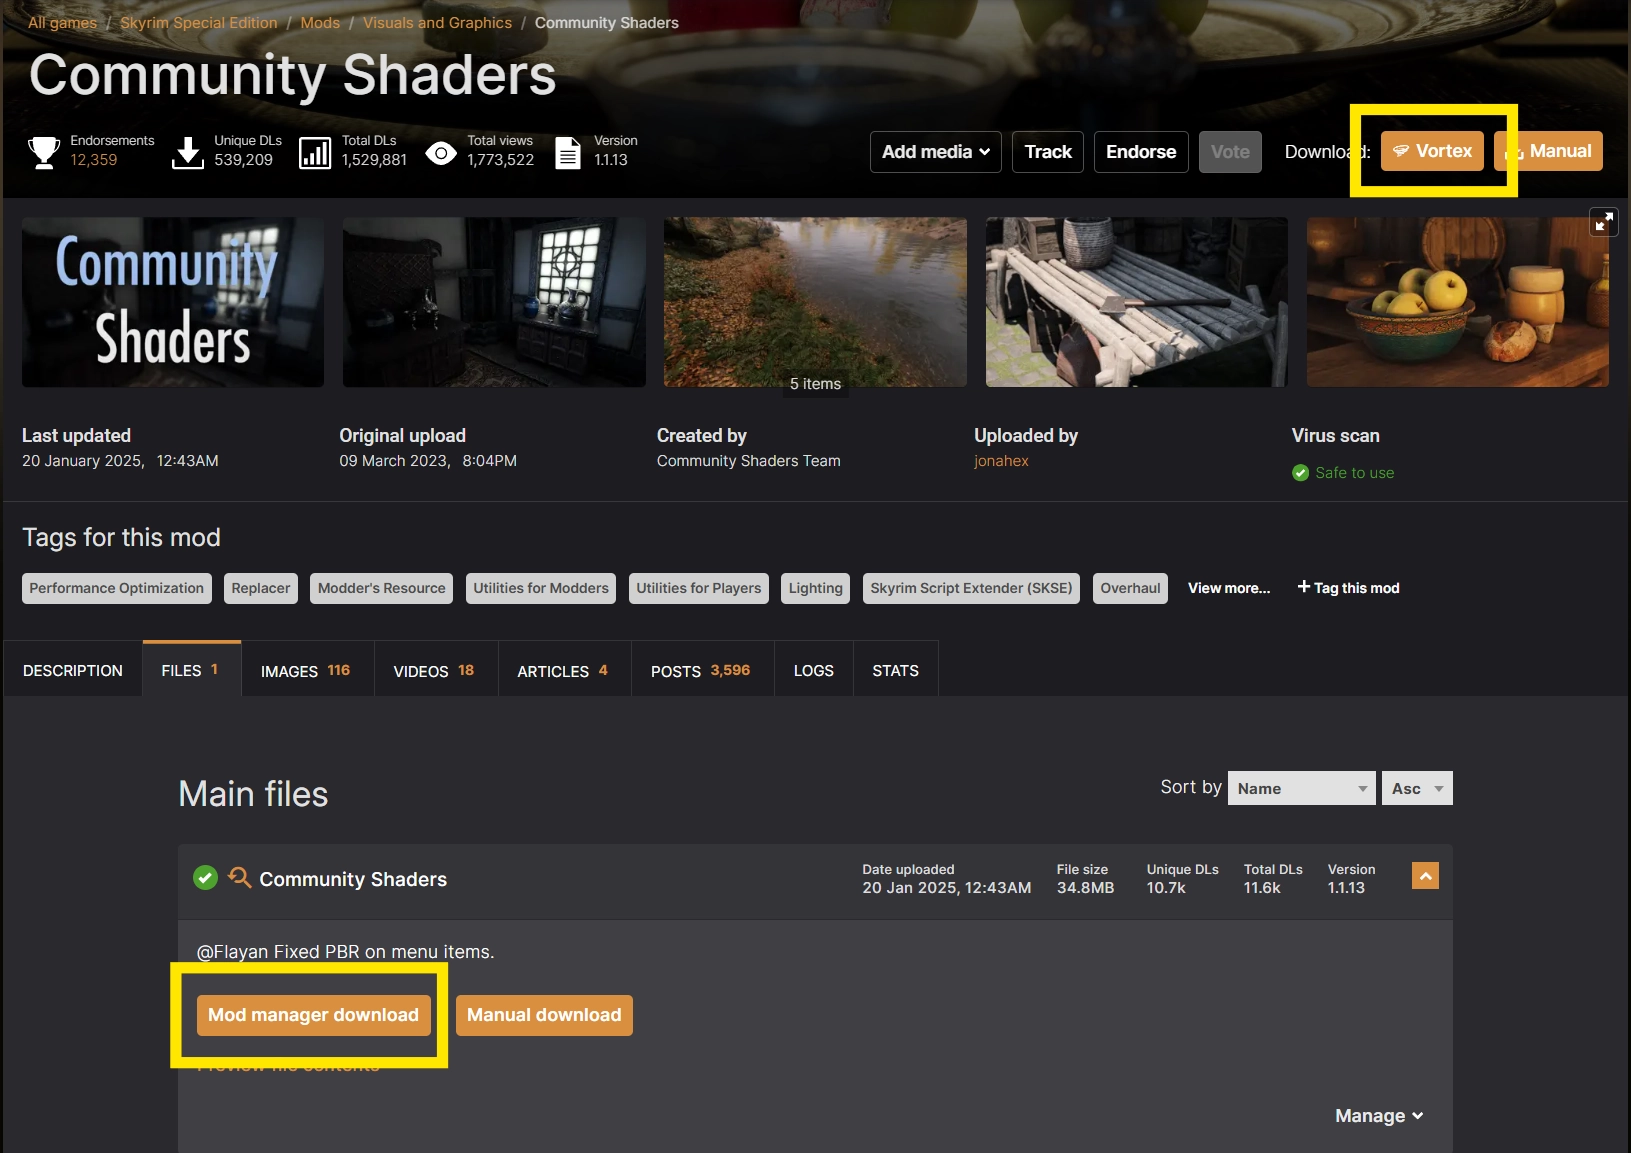
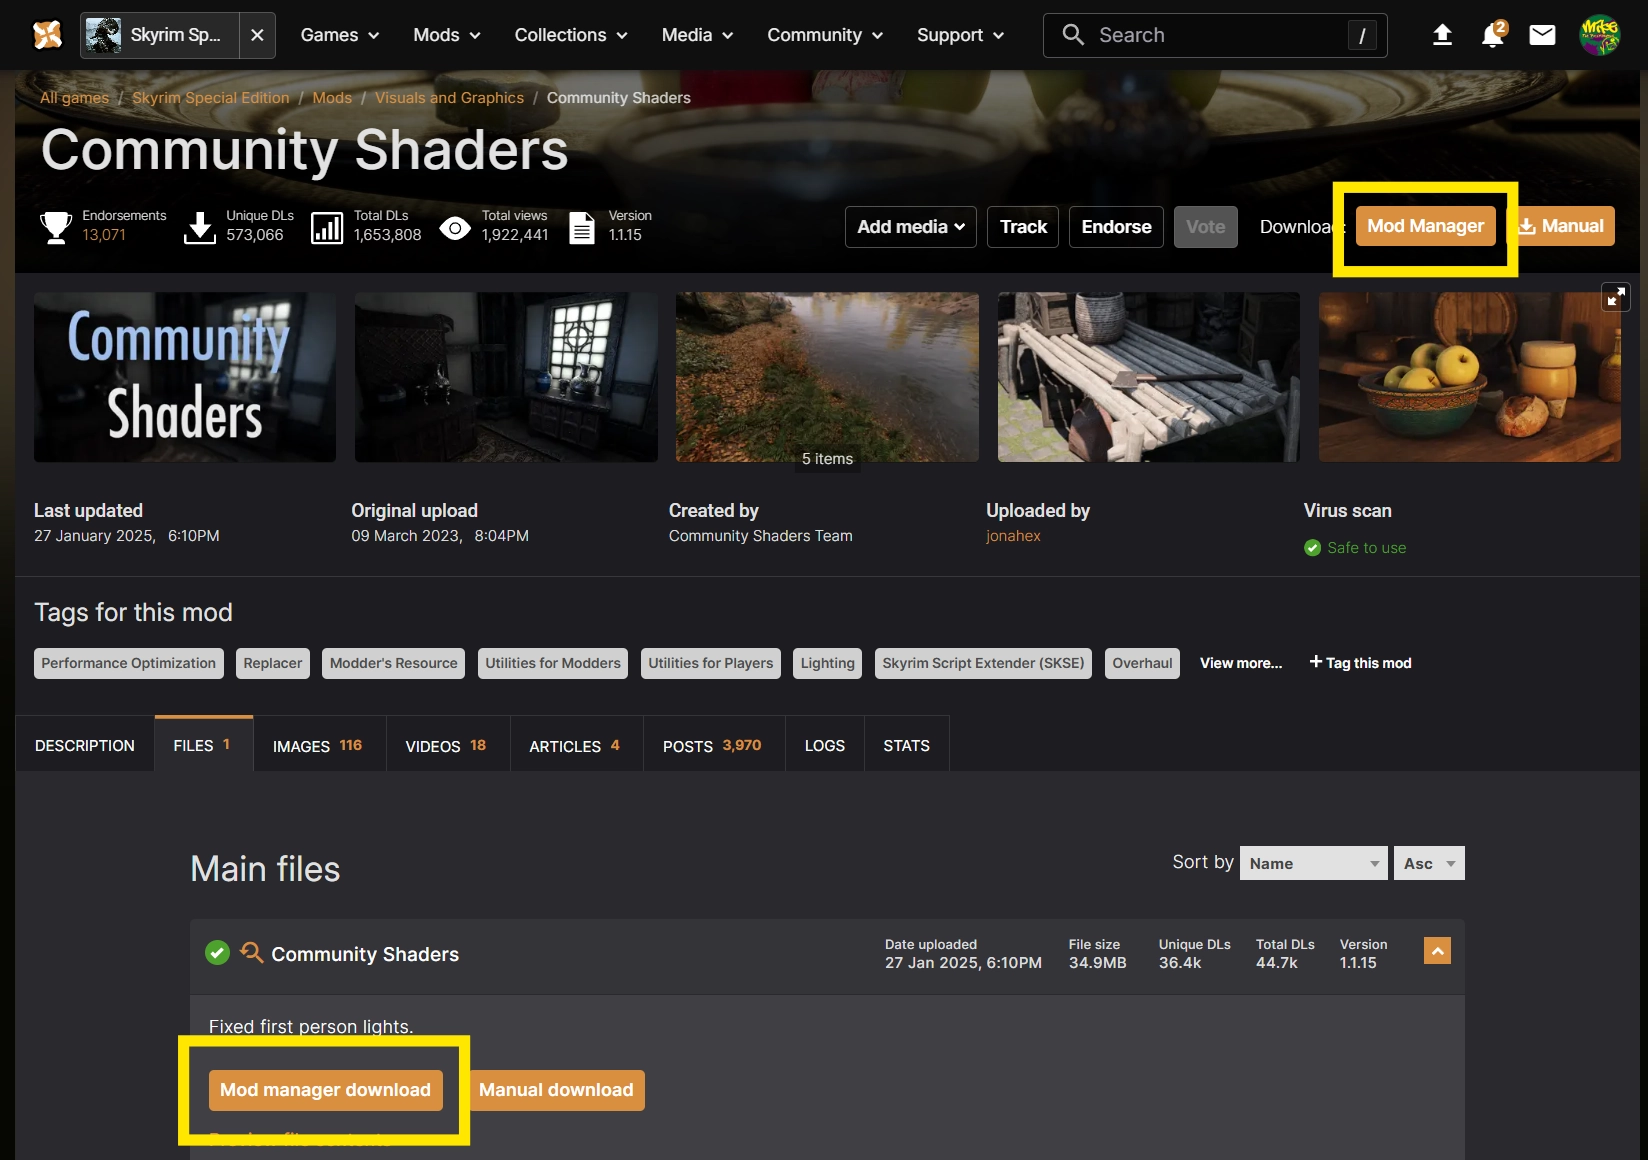
Updated migration guide (needs further refinement given the incoming changes)

diff --git a/docs/users/gettingstarted/MovingToTheApp.md b/docs/users/gettingstarted/MovingToTheApp.md
@@ -17,12 +17,13 @@ In this guide, we will cover the basics of importing existing mods from other mo
     1. Open the "Collections" tab from the side menu in Vortex.
     2. Click on the "Workshop" tab at the top of the page. 
     3. Hover over "Create a collection" and select "From Profile". Give your collection a name and press "Create". 
-        3a. (Optional) In the collection edit screen, we recommend selecting all the mods with Ctrl + A, clicking "Set version" on the bottom toolbar and choose "Exact only". This will ensure that the exact same mod file is downloaded into the app, rather than an updated version. 
+    ![The option to create a collection in Vortex.](../images/VortexCreateCollection.webp)
+        - (Optional) In the collection edit screen, we recommend selecting all the mods with ++ctrl+"A"++, clicking "Set version" on the bottom toolbar and choose "Exact only". This will ensure that the exact same mod file is downloaded into the app, rather than an updated version. 
     4. Click "Upload New" at the top of the page to upload your collection to the Nexus Mods website. There may be some warnings to resolve, if you need help with these errors please post on the [Vortex forums](https://forums.nexusmods.com/forum/4306-vortex-support/).
     5. Once the upload has completed, click "Open in Browser" in the notification.
     6. On the collection webpage, set a title, summary, category, image and description. This can be anything as the collection isn't intended to be shared publicly. 
     7. At the top of the page, click "Save & publish revision 1" and in the pop-up select "Unlisted" and click "Publish". 
-    8. Navigate to the "Mods" tab, select all your mods with Ctrl + A, then click "Deploy Mods" to confirm the changes. This will remove the mod files from the game.
+    8. Navigate to the "Mods" tab, select all your mods with ++ctrl+"A"++ and click "Disable, then click "Deploy Mods" to confirm the changes. This will remove the mod files from the game.
     9. Close Vortex.
     10. Open the app and press the "Add collection" button on the collection page to begin the download/install process.
 
@@ -34,14 +35,14 @@ In this guide, we will cover the basics of importing existing mods from other mo
     ??? note "Note - Mod Updates"
         Importing mods using this method means they do not have any Nexus Mods data associated with them and cannot be checked for updates.
 
-    1. In Vortex, head to the "Mods" tab, select all mods with Ctrl + A, then disable them.
+    1. In Vortex, head to the "Mods" tab, select all mods with ++ctrl+"A"++, then disable them.
     2. Click "Deploy Mods" to ensure all Vortex-managed files are removed from the game folder. 
     3. Select on the "Downloads" option in the side menu, the click "Open Folder" on the toolbar. 
     4. Take note of the download folder location - you'll need this shortly. You may now close Vortex.
     5. Open the Nexus Mods app and [add Stardew Valley](../gettingstarted/AddGames.md).
     6. In the Library, select "Get Mods: From Drive".
     7. Navigate to the download folder location found in Step 2.
-    8. Press Ctrl + A to select all mod archives in the folder.
+    8. Press ++ctrl+"A"++ to select all mod archives in the folder.
     9. Click "Open" and wait for the app to import all the mods (this can take several minutes).
     10. You can now start adding these mods to your loadout.
 
@@ -49,8 +50,22 @@ In this guide, we will cover the basics of importing existing mods from other mo
 ## Stardrop
 [Stardrop](https://www.nexusmods.com/stardewvalley/mods/10455) is a community-created cross-platform mod manager that is also a popular choice for Stardew Valley modders. 
 
-1. Uninstall SMAPI from your game folder (Uninstall instructions [:fontawesome-brands-windows:](https://stardewvalleywiki.com/Modding:Installing_SMAPI_on_Windows#Uninstall) [:fontawesome-brands-linux:](https://stardewvalleywiki.com/Modding:Installing_SMAPI_on_Linux#Uninstall)).
-2. 
+??? note "Note - Mod Updates"
+    Importing mods using this method means they do not have any Nexus Mods data associated with them and cannot be checked for updates.
+
+By default, Stardrop uses a subfolder of "Mods" in the game directory. To preserve the mods you already have installed with Stardrop, we suggest follow these instructions to relocated Stardrop's mod files. This means you can easily swap back to Stardrop, if you like:
+
+1. Create a folder called "Mods" somewhere on your computer outside of the Stardew Valley game folder. Inside that folder create a "Stardrop Installed Mods" folder.
+    - On Windows :fontawesome-brands-windows:, we recommend using `%localappdata%\Stardrop\Mods` and `%localappdata%\Stardrop\Mods\Stardrop Installed Mods`.
+    - On Linux :fontawesome-brands-linux:,we recommend using `$XDG_CONFIG_HOME\Stardrop\Mods` and `$XDG_CONFIG_HOME\Stardrop\Mods\Stardrop Installed Mods`
+2. In Stardrop, select View -> Settings from the top bar.
+![The Stardrop settings popup.](../images/StardropSettings.webp)
+3. Open the folder listed as "Mod Folder Path" in the Stardrop Settings.
+4. Move all the files and folders from the Mod Folder path to the new "Mods" folder you created in Step 1. 
+5. Update the folder in the Stardrop settings menu to match the new location.
+6. Repeat steps 3-5 for the "Stardrop Installed Mods" folder.
+7. Uninstall SMAPI from your game folder (Uninstall instructions [:fontawesome-brands-windows:](https://stardewvalleywiki.com/Modding:Installing_SMAPI_on_Windows#Uninstall) [:fontawesome-brands-linux:](https://stardewvalleywiki.com/Modding:Installing_SMAPI_on_Linux#Uninstall)).
+8. For each folder in the new "Stardrop Installed Mods" folder, create a zipped folder containing it. These can then be [imported into the app](./DownloadAMod.md#adding-a-mod-to-the-library-manually).
 
 ## Mod Organizer 2
 [Mod Organizer 2](https://www.nexusmods.com/skyrimspecialedition/mods/6194) is an alternative community-created mod manager used primarily for Bethesda games but also offers support for Stardew Valley. To add your mods downloaded into MO2 to the app, follow the steps below:
@@ -65,11 +80,14 @@ In this guide, we will cover the basics of importing existing mods from other mo
 4. Open the Nexus Mods app and [add Stardew Valley](../gettingstarted/AddGames.md).
 5. In the Library, select "Get Mods: From Drive".
 6. Navigate to the download folder location found in Step 2.
-7. Press Ctrl + A to select all mod archives in the folder.
+7. Press ++ctrl+"A"++ to select all mod archives in the folder.
 8. Click "Open" and wait for the app to import all the mods (this can take several minutes).
 9. You can now start adding these mods to your loadout.
 
 ## Manually Installed Mods
-Some users choose to install their mod by manually copying and pasting the downloaded mod files into their game folder. 
+Some users choose to install their mods by manually copying and pasting the downloaded mod files into their game folder. This method doesn't have a clean way to import files so the best we can do is clean up your game folder read for use with the app.
 
-1. Uninstall SMAPI from your game folder (Uninstall instructions [:fontawesome-brands-windows:](https://stardewvalleywiki.com/Modding:Installing_SMAPI_on_Windows#Uninstall) [:fontawesome-brands-linux:](https://stardewvalleywiki.com/Modding:Installing_SMAPI_on_Linux#Uninstall)).
+1. Open your game installation folder.
+2. Move the "Mods" folder so that it is no longer inside the Stardew Valley game folder (you can also delete it, but that is not recommended).
+3. Uninstall SMAPI from your game folder (Uninstall instructions [:fontawesome-brands-windows:](https://stardewvalleywiki.com/Modding:Installing_SMAPI_on_Windows#Uninstall) [:fontawesome-brands-linux:](https://stardewvalleywiki.com/Modding:Installing_SMAPI_on_Linux#Uninstall)).
+4. To start modding with the app, install your mods again by [importing the downloaded archives into the app](./DownloadAMod.md#adding-a-mod-to-the-library-manually).

diff --git a/docs/users/gettingstarted/DownloadAMod.md b/docs/users/gettingstarted/DownloadAMod.md
@@ -3,7 +3,7 @@
 In this guide, we'll cover adding a mod to the Library by downloading it from Nexus Mods or importing a file from your PC. 
 
 ## Downloading directly from Nexus Mods
-Mods shared on the Nexus Mods website can be downloaded quickly and easily into the app. On a Nexus Mods page for a supported game, look for the "Vortex" button in the top-right of the page and the "Mod Manager Download" button on each file in the files tab. Clicking these buttons will pass a the mod to the app and begin the download. 
+Mods shared on the Nexus Mods website can be downloaded quickly and easily into the app. On a Nexus Mods page for a supported game, look for the "Mod Manager" button in the top-right of the page and the "Mod Manager Download" button on each file in the files tab. Clicking these buttons will pass a the mod to the app and begin the download. 
 
 ![The Nexus Mods website with the top-right "Vortex" button highlighted and the "Mod Manager Download" button in the Files tab](../images/DownloadButtonsNexusMods.webp)
 
@@ -13,12 +13,18 @@ Once the mod is downloaded, it will appear in the Library for the relevant game.
 ??? info "Downloading from websites other than Nexus Mods"
     The app can import mods from any website, however, the rich metadata (including images, titles, version info) is only available for files downloaded from Nexus Mods.
 
-Mods that don't have a "Vortex" or "Mod Manager Download" button can be downloaded to your PC using the "Manual Download" buttons and then added to the app from the Library page. 
+Mods that don't have a "Mod Manager" button can be downloaded to your PC using the "Manual Download" button. 
+
+To add the file to the app, click the "From Drive" option on the Library page. You can select multiple files from the same folder to import at the same time.
+
+![The "From Drive" option highlighted in the Library to show how to add manually added archives.](../images/0.7.3/AddFromDrive.webp)
+
+Each imported file will be "grouped" as it's own mod and does not have any Nexus Mods metadata associated with it. 
 
 ## Troubleshooting
 Below are the common issues users report while downloading mods and the solutions.
 
-### The mod doesn't have the "Vortex" or "Mod Manager Download" buttons
+### The mod doesn't have the "Mod Manager" buttons
 If a mod page doesn't have the buttons to download directly into the app, this can be for one of two reasons:
 
 1. The game you're trying to download files from is not supported by a mod manager.
@@ -26,9 +32,9 @@ If a mod page doesn't have the buttons to download directly into the app, this c
 
 In both cases, you can still add mods to the Library as explained in [Adding a mod to the Library manually](#adding-a-mod-to-the-library-manually) above.
 
-### Clicking the "Vortex" button doesn't start the download
+### Clicking the "Mod Manager" button doesn't start the download
 
-If the buttons oon the mod page do not trigger a download, check the following:
+If the buttons on the mod page do not trigger a download, check the following:
 
 - Another mod manager is handling downloads
 - NXM handler issue
